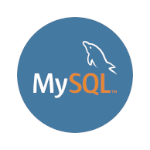
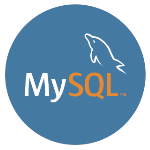
Updated all the images on AboutMe

diff --git a/src/Pages/AboutMePage.js b/src/Pages/AboutMePage.js
@@ -80,6 +80,7 @@ const PageSectionIcons = [
   }
 ]
 
+// Use iOS Image Layout on Imag2icon
 const ProgrammingLangIcons = [
   {
     label: 'C++',
@@ -118,6 +119,10 @@ const ProgrammingLangIcons = [
     img: 'csharp.png'
   },
   {
+    label: 'Spark+Hadoop',
+    img: 'spark+hadoop.png'
+  },
+  {
     label: 'React',
     img: 'react.png',
     lastOne: true
@@ -125,6 +130,7 @@ const ProgrammingLangIcons = [
 ]
 
 const paragraphPath = 'assets/paragraphs/'
+// Use iMessage Image Layout on Imag2icon
 const Employers = [
   {
     id: 'ExxonMobil',
@@ -156,6 +162,7 @@ const Employers = [
   }
 ]
 
+// Use Square Image Layout on Imag2icon
 const Affiliations = [
   {
     id: 'Baylor University Student Government',
